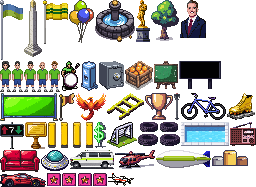
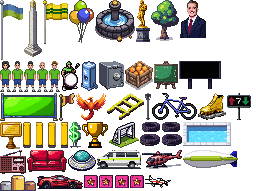
Dia de jogo: cena do lance em pixel art (PixelLab) + taça dourada no CT
- Faixa do estádio da abertura acima dos lances; cada lance narrado vira uma
  vinheta de ~2,6 s: gol (chute, goleiro não alcança, rede, torcida, flash e
  comemoração), defesa (goleiro segura), trave, travessão, pra fora e cartão
  (árbitro levanta o cartão amarelo/vermelho)
- Atacante e zagueiro nas cores de cada time (mesma troca de cor do CT);
  etiqueta do lance nas cores do placar
- Só lances que a narração mostra viram cena; sem a arte, fica só a narração;
  movimento reduzido mostra o quadro final
- Arte nova: chute e comemoração do atleta, defesa do goleiro e árbitro com
  cartão; taça do CT refeita em dourado
- Teste: escolha da vinheta e rótulos

Claude-Session: https://claude.ai/code/session_01NDRoGjTXZUm4ZcADANoGKx

diff --git a/src/ui/match/MatchScene.tsx b/src/ui/match/MatchScene.tsx
@@ -1,0 +1,237 @@
+import { useEffect, useRef, useState } from 'react';
+import { isNarrated } from '../../sports/football/narration';
+import type { MatchEvent, Side } from '../../sports/football/types';
+import { tintedSheet } from '../scene/tint';
+import stadiumUrl from '../../assets/intro/estadio.png';
+import athleteUrl from '../../assets/match/atleta.png';
+import keeperUrl from '../../assets/match/goleiro.png';
+import refereeUrl from '../../assets/match/arbitro.png';
+
+/**
+ * Cena do lance na partida assistida: o estádio da abertura e, a cada lance
+ * importante (gol, defesa, trave, pra fora, cartão), uma vinheta curta em pixel
+ * art com o atacante nas cores do time. Arte gerada no PixelLab; o atleta é
+ * recolorido como no CT (ver scene/tint.ts).
+ *
+ * Canvas 240×100: o estádio (240×136) desenhado 36 px acima, sem o céu.
+ */
+const W = 240;
+const H = 100;
+const OFF = -36;
+const DURATION = 2600;
+
+type Kind = 'goal' | 'save' | 'post' | 'bar' | 'miss' | 'yellow' | 'red';
+const KINDS: ReadonlySet<string> = new Set(['goal', 'save', 'post', 'bar', 'miss', 'yellow', 'red']);
+
+export const LABEL: Record<Kind, string> = { goal: 'GOL!', save: 'DEFESA!', post: 'NA TRAVE!', bar: 'NO TRAVESSÃO!', miss: 'PRA FORA', yellow: 'AMARELO', red: 'EXPULSO!' };
+
+interface Sheet { size: number; feet: number; cx: number; anims: Record<string, readonly [number, number]> }
+const ATHLETE: Sheet = { size: 40, feet: 37, cx: 20, anims: { parado: [0, 1], chute: [1, 6], comemora: [7, 9] } };
+const KEEPER: Sheet = { size: 40, feet: 37, cx: 20, anims: { parado: [0, 1], salto: [1, 5], chao: [6, 3], defesa: [9, 8] } };
+const REFEREE: Sheet = { size: 36, feet: 33, cx: 18, anims: { parado: [0, 1], cartao: [1, 9] } };
+/** Onde fica o cartão (branco) na mão levantada, nos 2 últimos quadros do árbitro. */
+const CARD_AT = { x: 19, y: 9 };
+
+/** Gol da arte (coordenadas do canvas, já com o deslocamento). */
+const GOAL = { left: 194, right: 222, top: 85 + OFF, bottom: 108 + OFF };
+const STANDS = { top: 56 + OFF, bottom: 95 + OFF };
+const KEEPER_AT = { x: 210, feet: 73 };
+const SHOT = { from: 112, to: 140, feet: 90 };
+
+export interface Vignette { kind: Kind; side: Side; key: number }
+
+/** O lance mais recente que merece vinheta, entre os eventos novos (só o que a narração mostra). */
+export function pickVignette(events: MatchEvent[], seen: number): MatchEvent | null {
+  for (let i = events.length - 1; i >= seen; i--) {
+    const e = events[i]!;
+    if (KINDS.has(e.type) && isNarrated(e)) return e;
+  }
+  return null;
+}
+
+const clamp01 = (v: number) => Math.max(0, Math.min(1, v));
+const seg = (t: number, a: number, b: number) => clamp01((t - a) / (b - a));
+const lerp = (a: number, b: number, t: number) => a + (b - a) * t;
+
+function frame(c: CanvasRenderingContext2D, img: CanvasImageSource, sh: Sheet, anim: string, i: number, x: number, feetY: number) {
+  const [start, n] = sh.anims[anim] ?? [0, 1];
+  const f = start + Math.max(0, Math.min(n - 1, Math.floor(i)));
+  c.drawImage(img, f * sh.size, 0, sh.size, sh.size, Math.round(x - sh.cx), Math.round(feetY - sh.feet), sh.size, sh.size);
+}
+
+function ball(c: CanvasRenderingContext2D, x: number, y: number, ground: number) {
+  c.fillStyle = 'rgba(0,0,0,0.3)'; c.fillRect(Math.round(x), Math.round(ground) + 3, 4, 1);
+  c.fillStyle = '#1a1420'; c.fillRect(Math.round(x), Math.round(y) + 1, 4, 2); c.fillRect(Math.round(x) + 1, Math.round(y), 2, 4);
+  c.fillStyle = '#ffffff'; c.fillRect(Math.round(x) + 1, Math.round(y) + 1, 2, 2);
+}
+
+/** Para onde vai a bola em cada tipo de lance (e onde termina depois). */
+function ballPath(kind: Kind, key: number) {
+  const corner = key % 2 ? { x: 198, y: GOAL.top + 4 } : { x: 215, y: GOAL.top + 6 };
+  switch (kind) {
+    case 'goal': return { end: corner, rest: { x: corner.x + 2, y: GOAL.bottom - 8 } };
+    case 'save': return { end: { x: KEEPER_AT.x - 9, y: KEEPER_AT.feet - 13 }, rest: { x: KEEPER_AT.x - 9, y: KEEPER_AT.feet - 13 } };
+    case 'post': return { end: { x: GOAL.left - 1, y: GOAL.top + 10 }, rest: { x: 172, y: 80 } };
+    case 'bar': return { end: { x: 207, y: GOAL.top - 1 }, rest: { x: 186, y: 30 } };
+    default: return { end: { x: 236, y: GOAL.top - 18 }, rest: { x: 250, y: GOAL.top - 24 } };
+  }
+}
+
+export function drawMatchScene(
+  c: CanvasRenderingContext2D, art: Art, v: Vignette | null, t: number, time: number,
+  kits: Record<Side, [string, string]>,
+) {
+  c.imageSmoothingEnabled = false;
+  const celebrating = v?.kind === 'goal' && t > 0.62;
+  c.drawImage(art.stadium, 0, OFF);
+  if (celebrating) { // torcida pulando
+    const h = STANDS.bottom - STANDS.top;
+    for (let x = 0; x < W; x += 3) {
+      const off = Math.round(Math.abs(Math.sin(time * 12 + x * 0.9)) * 2);
+      if (off) c.drawImage(art.stadium, x, STANDS.top - OFF, 3, h, x, STANDS.top - off, 3, h);
+    }
+  }
+  // rede (balança no gol)
+  const ripple = v?.kind === 'goal' ? clamp01(1 - (t - 0.6) / 0.35) * (t > 0.6 ? 1 : 0) : 0;
+  c.fillStyle = 'rgba(236,240,236,0.22)';
+  for (let i = 0; i <= 9; i++) {
+    const x = GOAL.left + 1 + ((GOAL.right - GOAL.left - 2) * i) / 9;
+    for (let y = GOAL.top + 1; y <= GOAL.bottom; y++) c.fillRect(Math.round(x + Math.sin(time * 28 + y * 0.5) * ripple * 1.6), y, 1, 1);
+  }
+  for (let j = 0; j <= 7; j++) c.fillRect(GOAL.left + 1, Math.round(GOAL.top + 1 + ((GOAL.bottom - GOAL.top - 1) * j) / 7), GOAL.right - GOAL.left - 2, 1);
+
+  const attackSide: Side = v?.side ?? 'home';
+  const defendSide: Side = attackSide === 'home' ? 'away' : 'home';
+  const athlete = (s: Side) => tintedSheet(art.athlete, kits[s], '#e0a878');
+
+  if (!v) { // bola parada no meio, um de cada time e o goleiro
+    frame(c, art.keeper, KEEPER, 'parado', 0, KEEPER_AT.x, KEEPER_AT.feet);
+    frame(c, athlete('away'), ATHLETE, 'parado', 0, 150, 82);
+    frame(c, athlete('home'), ATHLETE, 'parado', 0, 104, 90);
+    ball(c, 114, 86, 86);
+    return;
+  }
+
+  if (v.kind === 'yellow' || v.kind === 'red') {
+    frame(c, athlete(v.side), ATHLETE, 'parado', 0, 132, 88);
+    frame(c, art.keeper, KEEPER, 'parado', 0, KEEPER_AT.x, KEEPER_AT.feet);
+    const i = seg(t, 0, 0.55) * 9;
+    frame(c, art.referee, REFEREE, 'cartao', i, 112, 90);
+    if (i >= 7) {
+      c.fillStyle = v.kind === 'red' ? '#e0302a' : '#ffd23f';
+      c.fillRect(Math.round(112 - REFEREE.cx + CARD_AT.x), Math.round(90 - REFEREE.feet + CARD_AT.y), 3, 4);
+    }
+    return;
+  }
+
+  // zagueiro do outro time, parado na frente da área
+  frame(c, athlete(defendSide), ATHLETE, 'parado', 0, 168, 80);
+
+  // goleiro
+  const { end, rest } = ballPath(v.kind, v.key);
+  if (v.kind === 'save') {
+    frame(c, art.keeper, KEEPER, t < 0.42 ? 'parado' : 'defesa', seg(t, 0.42, 0.75) * 8, KEEPER_AT.x, KEEPER_AT.feet);
+  } else if (t < 0.45) {
+    frame(c, art.keeper, KEEPER, 'parado', 0, KEEPER_AT.x, KEEPER_AT.feet);
+  } else if (v.kind === 'goal' && t > 0.68) {
+    frame(c, art.keeper, KEEPER, 'chao', seg(t, 0.68, 0.8) * 3, KEEPER_AT.x + (end.x < KEEPER_AT.x ? -12 : 4), KEEPER_AT.feet);
+  } else {
+    const d = seg(t, 0.45, 0.68);
+    const dir = end.x < KEEPER_AT.x ? -1 : 1;
+    frame(c, art.keeper, KEEPER, 'salto', d * 5, KEEPER_AT.x + dir * d * 8, KEEPER_AT.feet - Math.round(Math.sin(d * Math.PI) * 3));
+  }
+
+  // atacante: corre, chuta e (no gol) comemora
+  const run = seg(t, 0, 0.32);
+  const ax = lerp(SHOT.from, SHOT.to, run);
+  if (celebrating) frame(c, athlete(v.side), ATHLETE, 'comemora', ((t - 0.62) * 30) % 9, SHOT.to + (t - 0.62) * 30, SHOT.feet);
+  else frame(c, athlete(v.side), ATHLETE, 'chute', Math.min(5, seg(t, 0, 0.5) * 6), ax, SHOT.feet);
+
+  // bola
+  const kick = { x: SHOT.to + 8, y: SHOT.feet - 4 };
+  if (t < 0.3) ball(c, kick.x, kick.y, kick.y);
+  else if (t < 0.6) {
+    const f = seg(t, 0.3, 0.6);
+    const ctl = { x: (kick.x + end.x) / 2, y: Math.min(kick.y, end.y) - 18 };
+    const a = (1 - f) * (1 - f), b = 2 * (1 - f) * f, cc = f * f;
+    const bx = a * kick.x + b * ctl.x + cc * end.x, by = a * kick.y + b * ctl.y + cc * end.y;
+    for (let k = 1; k <= 3; k++) { c.fillStyle = `rgba(255,255,255,${0.35 - k * 0.09})`; c.fillRect(Math.round(bx - k * 3), Math.round(by + k), 3, 3); }
+    ball(c, bx, by, lerp(kick.y, GOAL.bottom - 4, f));
+  } else if (v.kind !== 'save' || t < 0.75) {
+    const f = seg(t, 0.6, 0.85);
+    const bx = lerp(end.x, rest.x, f), by = Math.min(rest.y + (v.kind === 'bar' ? 0 : 0), lerp(end.y, rest.y, f) + (v.kind === 'goal' ? (f * f) * 6 : 0));
+    if (v.kind !== 'save') ball(c, bx, by, GOAL.bottom - 4);
+  }
+  if (v.kind === 'goal' && t > 0.6 && t < 0.7) { c.fillStyle = `rgba(255,255,255,${0.5 * (1 - (t - 0.6) / 0.1)})`; c.fillRect(0, 0, W, H); }
+}
+
+interface Art { stadium: HTMLImageElement; athlete: HTMLImageElement; keeper: HTMLImageElement; referee: HTMLImageElement }
+
+interface Props {
+  events: MatchEvent[];
+  /** Cores do placar (fundo/texto) de cada lado, para a etiqueta do lance. */
+  colors: Record<Side, { bg: string; fg: string }>;
+  /** Uniforme de cada lado: [camisa, calção]. */
+  kits: Record<Side, [string, string]>;
+  shorts: Record<Side, string>;
+}
+
+export function MatchScene({ events, colors, kits, shorts }: Props) {
+  const canvas = useRef<HTMLCanvasElement>(null);
+  const [art, setArt] = useState<Art | null>(null);
+  const seen = useRef(events.length);
+  const vignette = useRef<{ v: Vignette; start: number } | null>(null);
+  const [label, setLabel] = useState<{ text: string; side: Side; key: number } | null>(null);
+  const kitsRef = useRef(kits);
+  kitsRef.current = kits;
+
+  useEffect(() => {
+    let alive = true;
+    const load = (src: string) => new Promise<HTMLImageElement>((ok, fail) => { const im = new Image(); im.onload = () => ok(im); im.onerror = fail; im.src = src; });
+    Promise.all([load(stadiumUrl), load(athleteUrl), load(keeperUrl), load(refereeUrl)])
+      .then(([stadium, athlete, keeper, referee]) => { if (alive) setArt({ stadium, athlete, keeper, referee }); })
+      .catch(() => { /* sem arte: a cena some e fica só a narração */ });
+    return () => { alive = false; };
+  }, []);
+
+  // lance novo → vinheta
+  useEffect(() => {
+    const e = pickVignette(events, seen.current);
+    seen.current = events.length;
+    if (!e || !('side' in e)) return;
+    const key = events.length;
+    vignette.current = { v: { kind: e.type as Kind, side: e.side, key }, start: performance.now() };
+    setLabel({ text: LABEL[e.type as Kind], side: e.side, key });
+  }, [events.length]); // eslint-disable-line react-hooks/exhaustive-deps
+
+  useEffect(() => {
+    const ctx = canvas.current?.getContext('2d');
+    if (!ctx || !art) return;
+    const reduced = window.matchMedia?.('(prefers-reduced-motion: reduce)').matches;
+    let raf = 0;
+    const loop = (now: number) => {
+      const cur = vignette.current;
+      let t = 0;
+      if (cur) {
+        t = reduced ? 0.99 : (now - cur.start) / DURATION;
+        if (t >= 1.25) { vignette.current = null; setLabel(null); }
+      }
+      drawMatchScene(ctx, art, vignette.current?.v ?? null, Math.min(1, t), now / 1000, kitsRef.current);
+      raf = requestAnimationFrame(loop);
+    };
+    raf = requestAnimationFrame(loop);
+    return () => cancelAnimationFrame(raf);
+  }, [art]);
+
+  if (!art) return null;
+  return (
+    <div className="match-scene" aria-hidden="true">
+      <canvas ref={canvas} width={W} height={H} />
+      {label && (
+        <span key={label.key} className={`ms-label ${label.text === 'GOL!' ? 'big' : ''}`} style={{ background: colors[label.side].bg, color: colors[label.side].fg }}>
+          {label.text} <small>{shorts[label.side]}</small>
+        </span>
+      )}
+    </div>
+  );
+}

diff --git a/src/ui/match/MatchDay.tsx b/src/ui/match/MatchDay.tsx
@@ -9,6 +9,7 @@ import type { Formation, Side, Style, TeamStats } from '../../sports/football/ty
 import { track } from '../analytics';
 import { cheer, play, setCrowd, SoundToggle, startCrowd, stopCrowd, useSoundOn } from '../sound';
 import { crowdLevels, crowdReaction, CUE_PRIORITY, type CrowdCue } from '../crowd';
+import { MatchScene } from './MatchScene';
 import { RoundBoard, type Scope } from './RoundBoard';
 import { Flag } from '../flag';
 import { Badge, Bar, Fold, POS_LABEL, STYLE_LABEL, matchColors, type SideColor } from '../util';
@@ -216,6 +217,15 @@ export function MatchDay({ career, prep: p, onDone }: Props) {
       </div>
       <div className="live-grid">
         <div className="live-main">
+        <MatchScene
+          events={m.events}
+          colors={colors}
+          kits={{
+            home: [home.colors[0], home.colors[1]],
+            away: colors.away.bg === away.colors[0] ? [away.colors[0], away.colors[1]] : [colors.away.bg, away.colors[0]],
+          }}
+          shorts={{ home: m.home.short, away: m.away.short }}
+        />
         <div className="tabs" role="tablist" aria-label="O que acompanhar">
           {(p.cup !== undefined
             ? [['lances', 'Lance a lance', 'Lances'], ['div', 'Outros jogos', 'Outros jogos']] as const

diff --git a/tests/matchScene.test.ts b/tests/matchScene.test.ts
@@ -1,0 +1,22 @@
+import { describe, expect, it } from 'vitest';
+import { LABEL, pickVignette } from '../src/ui/match/MatchScene';
+import type { MatchEvent } from '../src/sports/football/types';
+
+const ev = (e: Partial<MatchEvent> & { type: MatchEvent['type'] }) => ({ minute: 10, side: 'home', playerId: 'p', playerName: 'X', ...e }) as MatchEvent;
+
+describe('cena do lance na partida', () => {
+  it('escolhe o lance mais recente que merece vinheta entre os eventos novos', () => {
+    const events = [ev({ type: 'goal' }), ev({ type: 'sub' }), ev({ type: 'save', keeperName: 'G' } as never), ev({ type: 'tactic', text: '' } as never)];
+    expect(pickVignette(events, 1)?.type).toBe('save');
+    expect(pickVignette(events, 3)).toBeNull(); // só tática nova: nada
+  });
+
+  it('ignora o que a narração não mostra (chute pra fora que não é pênalti)', () => {
+    expect(pickVignette([ev({ type: 'miss' })], 0)).toBeNull();
+    expect(pickVignette([ev({ type: 'miss', penalty: true })], 0)?.type).toBe('miss');
+  });
+
+  it('tem rótulo para todo tipo de vinheta', () => {
+    for (const k of ['goal', 'save', 'post', 'bar', 'miss', 'yellow', 'red'] as const) expect(LABEL[k]).toBeTruthy();
+  });
+});

diff --git a/src/ui/styles.css b/src/ui/styles.css
@@ -921,3 +921,12 @@ html, body { overflow-x: hidden; }
 .fold-board .round-board { margin-top: 0; padding-top: 0; border-top: 0; }
 .fold-board .rb-head h4 { display: none; }
 .side-panel .fold, .two-col .fold { margin-top: 10px; }
+
+/* ---------- cena do lance (partida assistida) ---------- */
+.match-scene { position: relative; margin-bottom: 8px; box-shadow: 0 0 0 var(--px) var(--ink); background: #0e1126; overflow: hidden; }
+.match-scene canvas { display: block; width: 100%; height: auto; aspect-ratio: 240 / 100; image-rendering: pixelated; image-rendering: crisp-edges; }
+.ms-label { position: absolute; left: 50%; top: 10px; transform: translateX(-50%); padding: 4px 12px; font-family: var(--font-pixel); font-size: 18px; letter-spacing: 1px; white-space: nowrap; box-shadow: 0 0 0 3px var(--ink); animation: ms-pop 0.35s cubic-bezier(.2,1.6,.4,1); }
+.ms-label small { font-size: 12px; opacity: 0.85; margin-left: 4px; }
+.ms-label.big { font-size: 26px; }
+@keyframes ms-pop { from { transform: translateX(-50%) scale(0.4); opacity: 0; } to { transform: translateX(-50%) scale(1); opacity: 1; } }
+@media (prefers-reduced-motion: reduce) { .ms-label { animation: none; } }
